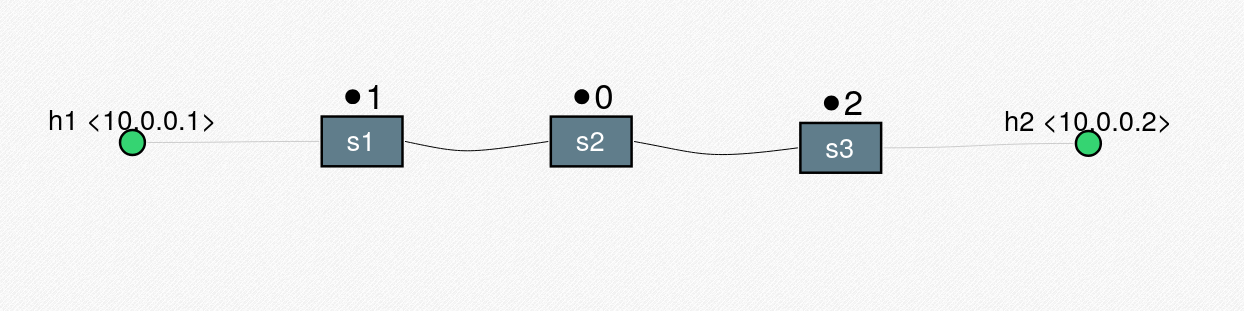
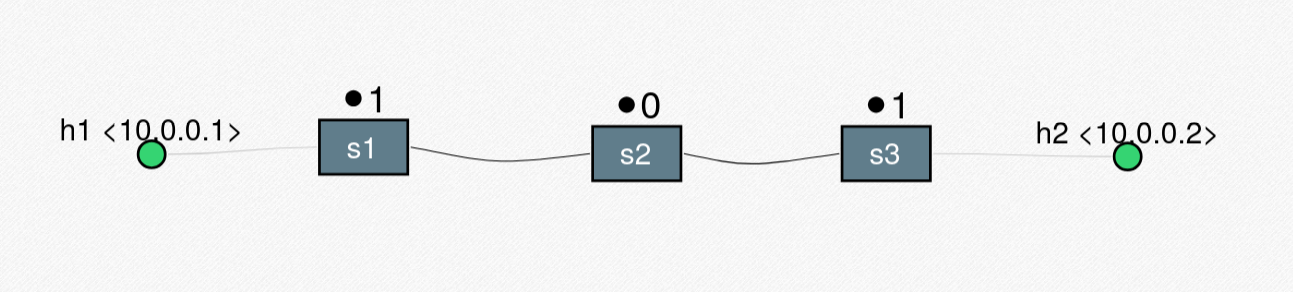
fix: updated imgs and added img with p_loss

diff --git a/README.md b/README.md
@@ -46,13 +46,13 @@ More about LineadEnds in the next section.
 The LineadEnds topology is a custom topology that by default has 1 host at one end, let's call it Server, and 1 host at the other end, let's call it Client, with 3 switches as intermediaries.
 
 <p align="center">
-  <img src="./docs/imgs/linear_ends_1_client.png">
+  <img src="./docs/imgs/linear_ends_1_client.png" height="130px">
 </p>
 
 There is one customization parameter for adding more hosts to the right end, a.k.a. adding more Clients.
 
 <p align="center">
-  <img src="./docs/imgs/linear_ends_multiple_clients.png">
+  <img src="./docs/imgs/linear_ends_multiple_clients.png" height="180px">
 </p>
 
 
@@ -77,6 +77,10 @@ sudo mn --custom ./mininet/linear_ends.py --topo linends,n,p_loss --link tc
 ```
 
 Where `--link tc` is to setup the link type as TrafficControl to be able to modify the packet loss.
+
+<p align="center">
+  <img src="./docs/imgs/linear_ends_multiple_clients_with_loss.png" height="180px">
+</p>
 
 If you don't have Mininet run in Linux the script `scripts/install_deps.sh` or you can install visit: [Mininet website: downloads](http://mininet.org/download/).
 
